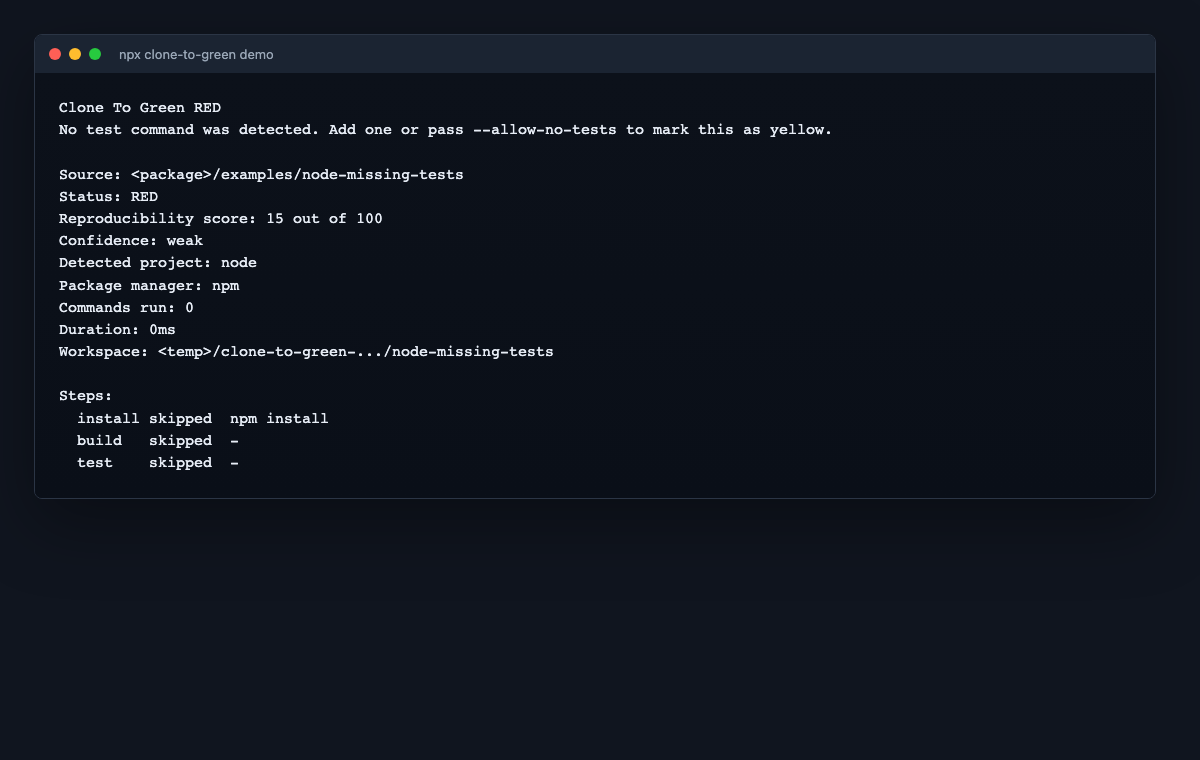
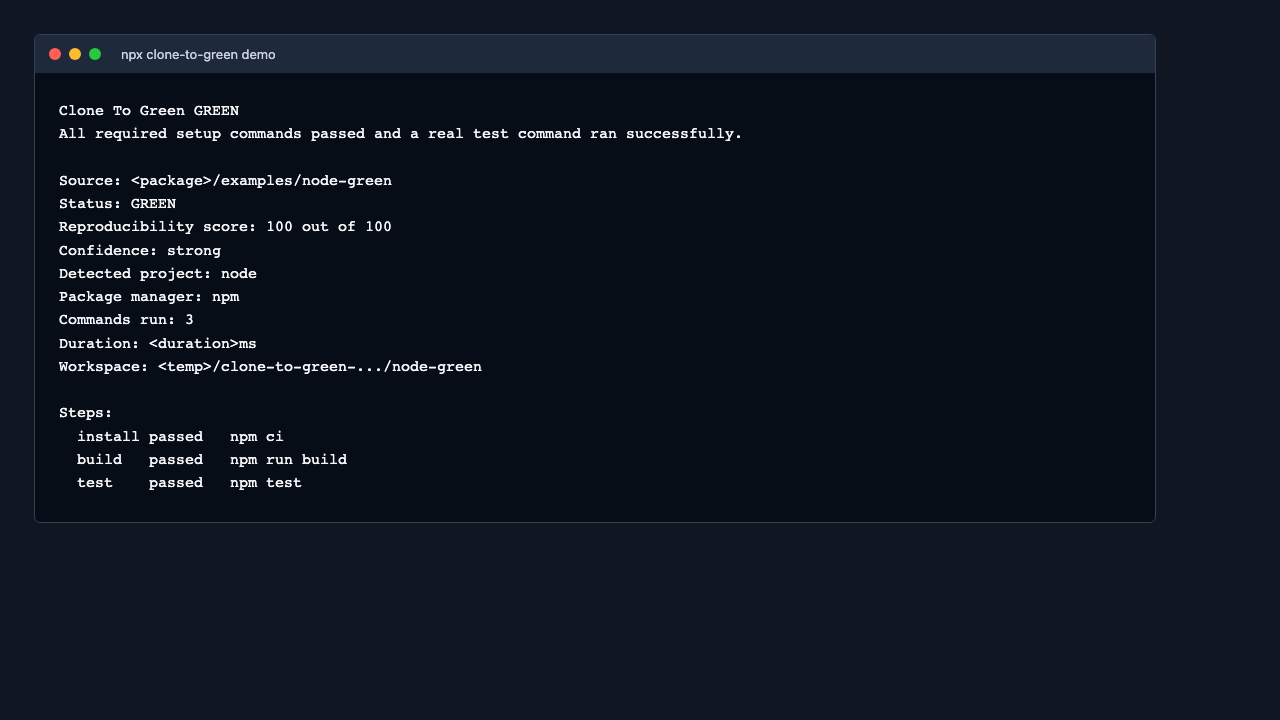
Make bundled demo green by default

Changed region(s): [[0.0308, 0.0611, 0.8942, 0.7028]]

diff --git a/docs/assets/demo-report.html b/docs/assets/demo-report.html
@@ -20,32 +20,30 @@
 <body>
   <main>
     <h1>Clone To Green Report</h1>
-    <p><strong>Status:</strong> RED</p>
-    <p><strong>Summary:</strong> No test command was detected. Add one or pass --allow-no-tests to mark this as yellow.</p>
-    <p><strong>Source:</strong> <code>&lt;package&gt;/examples/node-missing-tests</code></p>
-    <p><strong>Workspace:</strong> <code>&lt;temp&gt;/clone-to-green-.../node-missing-tests</code></p>
+    <p><strong>Status:</strong> GREEN</p>
+    <p><strong>Summary:</strong> All required setup commands passed and a real test command ran successfully.</p>
+    <p><strong>Source:</strong> <code>&lt;package&gt;/examples/node-green</code></p>
+    <p><strong>Workspace:</strong> <code>&lt;temp&gt;/clone-to-green-.../node-green</code></p>
     <p><strong>Profile:</strong> <code>node</code></p>
     <section class="cards" aria-label="Reproducibility summary">
-      <div class="card"><p class="label">Status</p><p class="value">RED</p></div>
-      <div class="card"><p class="label">Reproducibility score</p><p class="value">15/100</p></div>
-      <div class="card"><p class="label">Confidence</p><p class="value">weak</p></div>
+      <div class="card"><p class="label">Status</p><p class="value">GREEN</p></div>
+      <div class="card"><p class="label">Reproducibility score</p><p class="value">100/100</p></div>
+      <div class="card"><p class="label">Confidence</p><p class="value">strong</p></div>
     </section>
     <h2>Reproducibility Penalties</h2>
     <table>
       <thead><tr><th>Penalty</th><th>Points</th><th>Message</th></tr></thead>
       <tbody>
-        <tr><td>No real test command</td><td>45</td><td>No real test command was detected.</td></tr>
-        <tr><td>No lockfile</td><td>25</td><td>Node project has no recognized package manager lockfile.</td></tr>
-        <tr><td>No config file</td><td>15</td><td>No clone-to-green config file was found.</td></tr>
+        <tr><td>None</td><td>0</td><td>No reproducibility penalties were detected.</td></tr>
       </tbody>
     </table>
     <h2>Steps</h2>
     <table>
       <thead><tr><th>Step</th><th>Status</th><th>Command</th><th>Duration</th></tr></thead>
       <tbody>
-        <tr><td>install</td><td>skipped</td><td><code>npm install</code></td><td>0ms</td></tr>
-        <tr><td>build</td><td>skipped</td><td><code></code></td><td>0ms</td></tr>
-        <tr><td>test</td><td>skipped</td><td><code></code></td><td>0ms</td></tr>
+        <tr><td>install</td><td>passed</td><td><code>npm ci</code></td><td>&lt;duration&gt;ms</td></tr>
+        <tr><td>build</td><td>passed</td><td><code>npm run build</code></td><td>&lt;duration&gt;ms</td></tr>
+        <tr><td>test</td><td>passed</td><td><code>npm test</code></td><td>&lt;duration&gt;ms</td></tr>
       </tbody>
     </table>
   </main>

diff --git a/test/cli.test.ts b/test/cli.test.ts
@@ -47,10 +47,10 @@ describe('cli', () => {
     });
 
     const report = JSON.parse(stdout);
-    expect(exitCode).toBe(1);
-    expect(report.source.input).toContain('examples/node-missing-tests');
-    expect(report.result.status).toBe('red');
-    expect(report.reproducibility.penalties.map((penalty: { id: string }) => penalty.id)).toContain('no_real_test_command');
+    expect(exitCode).toBe(0);
+    expect(report.source.input).toContain('examples/node-green');
+    expect(report.result.status).toBe('green');
+    expect(report.reproducibility.score).toBe(100);
   });
 
   test('demo --green uses the bundled passing example', async () => {
@@ -68,6 +68,22 @@ describe('cli', () => {
     expect(report.result.status).toBe('green');
   });
 
+  test('demo --red uses the bundled missing-tests example', async () => {
+    let stdout = '';
+    const exitCode = await runCli(['node', 'ctg', 'demo', '--red', '--format', 'json'], {
+      stdout: (chunk) => {
+        stdout += chunk;
+      },
+      stderr: () => {}
+    });
+
+    const report = JSON.parse(stdout);
+    expect(exitCode).toBe(1);
+    expect(report.source.input).toContain('examples/node-missing-tests');
+    expect(report.result.status).toBe('red');
+    expect(report.reproducibility.penalties.map((penalty: { id: string }) => penalty.id)).toContain('no_real_test_command');
+  });
+
   test('demo --badge prints markdown badge text', async () => {
     let stdout = '';
     const exitCode = await runCli(['node', 'ctg', 'demo', '--badge'], {
@@ -79,7 +95,7 @@ describe('cli', () => {
 
     expect(exitCode).toBe(0);
     expect(stdout).toContain('![Clone To Green]');
-    expect(stdout).toContain('clone--to--green');
+    expect(stdout).toContain('clone--to--green-green-brightgreen');
   });
 
   test('run treats missing tests as red by default', async () => {

diff --git a/test/readme-launch.test.ts b/test/readme-launch.test.ts
@@ -9,7 +9,7 @@ describe('launch-ready README', () => {
     expect(firstScreen).toContain('Can a stranger clone your repo and get green?');
     expect(firstScreen).toContain('npx clone-to-green run .');
     expect(firstScreen).toContain('npx clone-to-green demo');
-    expect(firstScreen).toContain('Reproducibility score: 15 out of 100');
+    expect(firstScreen).toContain('Reproducibility score: 100 out of 100');
     expect(firstScreen).toContain('npx clone-to-green demo --format html --output ctg-demo.html');
   });
 
@@ -24,11 +24,12 @@ describe('launch-ready README', () => {
     expect(readme).not.toContain('Terminal GIF coming soon.');
     expect(readme).toContain('Preview the demo output:');
     expect(readme).toContain('- Terminal output: [docs/assets/demo-output.txt](docs/assets/demo-output.txt)');
+    expect(readme).toContain('Use `--red` to inspect the missing-tests failure example.');
   });
 
   test('includes publish-readiness docs for the next manual release', async () => {
     await expect(readFile('docs/npm-publish-check.md', 'utf8')).resolves.toContain('npm publish');
-    await expect(readFile('docs/release-v0.1.2.md', 'utf8')).resolves.toContain('Clone To Green v0.1.2');
+    await expect(readFile('docs/release-v0.1.3.md', 'utf8')).resolves.toContain('Clone To Green v0.1.3');
   });
 
   test('contains the requested launch sections', async () => {

diff --git a/src/cli.ts b/src/cli.ts
@@ -174,14 +174,16 @@ Exit codes:
 }
 
 async function handleDemo(options: DemoOptions, io: Required<CliIo>): Promise<number> {
+  const useRedDemo = Boolean(options.red);
+
   if (options.badge) {
-    const status = options.green ? 'green' : 'red';
+    const status = useRedDemo ? 'red' : 'green';
     const color = status === 'green' ? 'brightgreen' : 'red';
     io.stdout(`![Clone To Green](https://img.shields.io/badge/clone--to--green-${status}-${color})\n`);
     return 0;
   }
 
-  const example = options.green ? 'node-green' : 'node-missing-tests';
+  const example = useRedDemo ? 'node-missing-tests' : 'node-green';
   const source = bundledExamplePath(example);
   return handleRun(
     source,
@@ -189,7 +191,7 @@ async function handleDemo(options: DemoOptions, io: Required<CliIo>): Promise<nu
       ...defaultCommonOptions(),
       format: options.format,
       output: options.output,
-      install: options.green ? true : false,
+      install: !useRedDemo,
       allowNoTests: false,
       failOnYellow: false
     },

diff --git a/test/package-policy.test.ts b/test/package-policy.test.ts
@@ -29,8 +29,8 @@ describe('Node runtime policy', () => {
     await expect(readFile('.node-version', 'utf8')).resolves.toBe('24\n');
     await expect(readFile('.npmrc', 'utf8')).resolves.toBe('engine-strict=true\n');
     expect(packageJson.name).toBe('clone-to-green');
-    expect(packageJson.version).toBe('0.1.2');
-    expect(VERSION).toBe('0.1.2');
+    expect(packageJson.version).toBe('0.1.3');
+    expect(VERSION).toBe('0.1.3');
     expect(packageJson.engines.node).toBe('^24.0.0');
     expect(packageJson.bin).toEqual({
       'clone-to-green': 'dist/cli.js',

diff --git a/src/types.ts b/src/types.ts
@@ -172,4 +172,4 @@ export interface CliIo {
   stderr?: (chunk: string) => void;
 }
 
-export const VERSION = '0.1.2';
+export const VERSION = '0.1.3';

diff --git a/FINAL_CHECK.md b/FINAL_CHECK.md
@@ -69,3 +69,56 @@
 - `git push origin v0.1.2`
 - Create GitHub v0.1.2 release
 - Add repo topics if not already added
+
+## v0.1.3 default demo fix
+
+### Commands run
+
+- `npm test`
+- `npm run typecheck`
+- `npm run build`
+- `npm pack --dry-run --cache /private/tmp/ctg-npm-cache`
+- `node dist/cli.js demo`
+- `node dist/cli.js demo --red`
+- `node dist/cli.js demo --badge`
+
+### Commands passed
+
+- `npm test`: 11 test files passed, 39 tests passed.
+- `npm run typecheck`: passed.
+- `npm run build`: passed.
+- `npm pack --dry-run --cache /private/tmp/ctg-npm-cache`: passed, 43 files, 93.0 kB packed.
+- `node dist/cli.js demo`: passed, status green, score 100.
+- `node dist/cli.js demo --red`: passed as the expected red demo, exit 1.
+- `node dist/cli.js demo --badge`: passed, printed the green badge.
+
+### Files changed
+
+- `CHANGELOG.md`
+- `FINAL_CHECK.md`
+- `README.md`
+- `docs/assets/demo-output.md`
+- `docs/assets/demo-output.txt`
+- `docs/assets/demo-report.html`
+- `docs/assets/demo.png`
+- `docs/demo-script.md`
+- `docs/npm-publish-check.md`
+- `docs/release-v0.1.3.md`
+- `package-lock.json`
+- `package.json`
+- `src/cli.ts`
+- `src/types.ts`
+- `test/cli.test.ts`
+- `test/package-policy.test.ts`
+- `test/readme-launch.test.ts`
+
+### Manual next steps
+
+- `npm publish --cache /private/tmp/ctg-npm-cache --registry=https://registry.npmjs.org/ --access public`
+- `npm view clone-to-green version --registry=https://registry.npmjs.org/`
+- `npx clone-to-green@latest --version`
+- `npx clone-to-green@latest demo`
+- `npx clone-to-green@latest demo --red`
+- `git tag v0.1.3`
+- `git push origin v0.1.3`
+- Create GitHub v0.1.3 release

diff --git a/README.md b/README.md
@@ -18,23 +18,23 @@ npx clone-to-green demo
 ```
 
 ```text
-Clone To Green RED
-No test command was detected. Add one or pass --allow-no-tests to mark this as yellow.
+Clone To Green GREEN
+All required setup commands passed and a real test command ran successfully.
 
-Source: <package>/examples/node-missing-tests
-Status: RED
-Reproducibility score: 15 out of 100
-Confidence: weak
+Source: <package>/examples/node-green
+Status: GREEN
+Reproducibility score: 100 out of 100
+Confidence: strong
 Detected project: node
 Package manager: npm
-Commands run: 0
-Duration: 0ms
-Workspace: <temp>/clone-to-green-.../node-missing-tests
+Commands run: 3
+Duration: <duration>ms
+Workspace: <temp>/clone-to-green-.../node-green
 
 Steps:
-  install skipped  npm install
-  build   skipped  -
-  test    skipped  -
+  install passed   npm ci
+  build   passed   npm run build
+  test    passed   npm test
 ```
 
 ```sh
@@ -91,7 +91,7 @@ npx clone-to-green demo --badge
 
 ## Example output
 
-The default demo shows a missing-tests repo so the failure explanation is easy to understand.
+The default demo shows a passing repo so the first run exits green. Use `--red` to inspect the missing-tests failure example.
 
 ```sh
 npx clone-to-green demo

diff --git a/docs/npm-publish-check.md b/docs/npm-publish-check.md
@@ -2,9 +2,9 @@
 
 Use this checklist for the manual `clone-to-green` npm publish. Publishing must be done manually by the maintainer.
 
-If `npm view clone-to-green version` already returns `0.1.2`, do not republish.
+If `npm view clone-to-green version` already returns `0.1.3`, do not republish.
 
-If npm latest is `0.1.1`, publish `0.1.2`.
+If npm latest is `0.1.2`, publish `0.1.3`.
 
 If the local npm registry is not npmjs, append `--registry=https://registry.npmjs.org/` to npm registry commands.
 
@@ -27,8 +27,8 @@ npx clone-to-green@latest run examples/node-green --ci
 
 1. Confirm the logged-in npm account with `npm whoami`.
 2. Check the current published version with `npm view clone-to-green version`.
-3. If the current version is already `0.1.2`, stop.
-4. If the current version is `0.1.1`, run `npm pack --dry-run`.
+3. If the current version is already `0.1.3`, stop.
+4. If the current version is `0.1.2`, run `npm pack --dry-run`.
 5. Run `npm publish --dry-run`.
 6. Run `npm publish`.
 7. Verify npm latest with `npm view clone-to-green version`.

diff --git a/docs/assets/demo-output.md b/docs/assets/demo-output.md
@@ -1,21 +1,21 @@
 # Clone To Green Demo Output
 
 ```text
-Clone To Green RED
-No test command was detected. Add one or pass --allow-no-tests to mark this as yellow.
+Clone To Green GREEN
+All required setup commands passed and a real test command ran successfully.
 
-Source: <package>/examples/node-missing-tests
-Status: RED
-Reproducibility score: 15 out of 100
-Confidence: weak
+Source: <package>/examples/node-green
+Status: GREEN
+Reproducibility score: 100 out of 100
+Confidence: strong
 Detected project: node
 Package manager: npm
-Commands run: 0
-Duration: 0ms
-Workspace: <temp>/clone-to-green-.../node-missing-tests
+Commands run: 3
+Duration: <duration>ms
+Workspace: <temp>/clone-to-green-.../node-green
 
 Steps:
-  install skipped  npm install
-  build   skipped  -
-  test    skipped  -
+  install passed   npm ci
+  build   passed   npm run build
+  test    passed   npm test
 ```

diff --git a/docs/release-v0.1.3.md b/docs/release-v0.1.3.md
@@ -1,0 +1,20 @@
+# Clone To Green v0.1.3
+
+Default demo fix release.
+
+## Changes
+
+- Changed `clone-to-green demo` to use the passing bundled example by default.
+- Kept the missing-tests demonstration available through `clone-to-green demo --red`.
+- Updated README, demo assets, and release docs so first-run examples are green.
+- Kept product scope unchanged.
+
+## Verification
+
+- `npm test`
+- `npm run build`
+- `npm run typecheck`
+- `npm pack --dry-run`
+- `npx clone-to-green@latest --version` after publish
+- `npx clone-to-green@latest demo` after publish
+- `npx clone-to-green@latest demo --red` after publish

diff --git a/docs/demo-script.md b/docs/demo-script.md
@@ -12,9 +12,9 @@ Open a terminal at the Clone To Green repository root.
    clone-to-green demo
    ```
 
-   Explain that the default demo shows what a fragile repo looks like when a stranger tries to get to green.
+   Explain that the default demo shows the clean, successful path.
 
-2. Show a passing repo:
+2. Show the passing repo explicitly:
 
    ```sh
    ctg demo --green
